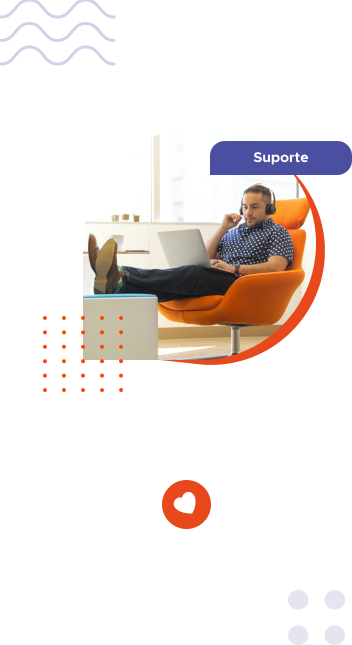
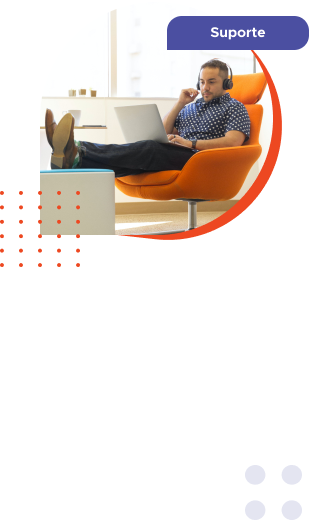
:bug: Fix dos grafismos da tela de login desktop

diff --git a/public/styles/login.css b/public/styles/login.css
@@ -154,22 +154,23 @@ body {
 
   body::before {
     content: '';
-    width: 22rem;
-    height: 40.3125rem;
+    width: 19.3125rem;
+    height: 32.5rem;
     background: url('/images/bg-desk-l.png') no-repeat;
     background-size: cover;
     position: absolute;
-    top: 0;
-    left: 0;
+    top: 7.8125rem;
+    left: 2.6875rem;
     z-index: -1;
   }
 
   body::after {
     content: '';
     width: 22rem;
-    height: 40.3125rem;
+    height: 21.25rem;
     background: url('/images/bg-desk-r.png') no-repeat;
     background-size: cover;
+    background-position: bottom;
     position: absolute;
     bottom: 1.375rem;
     right: 0;
